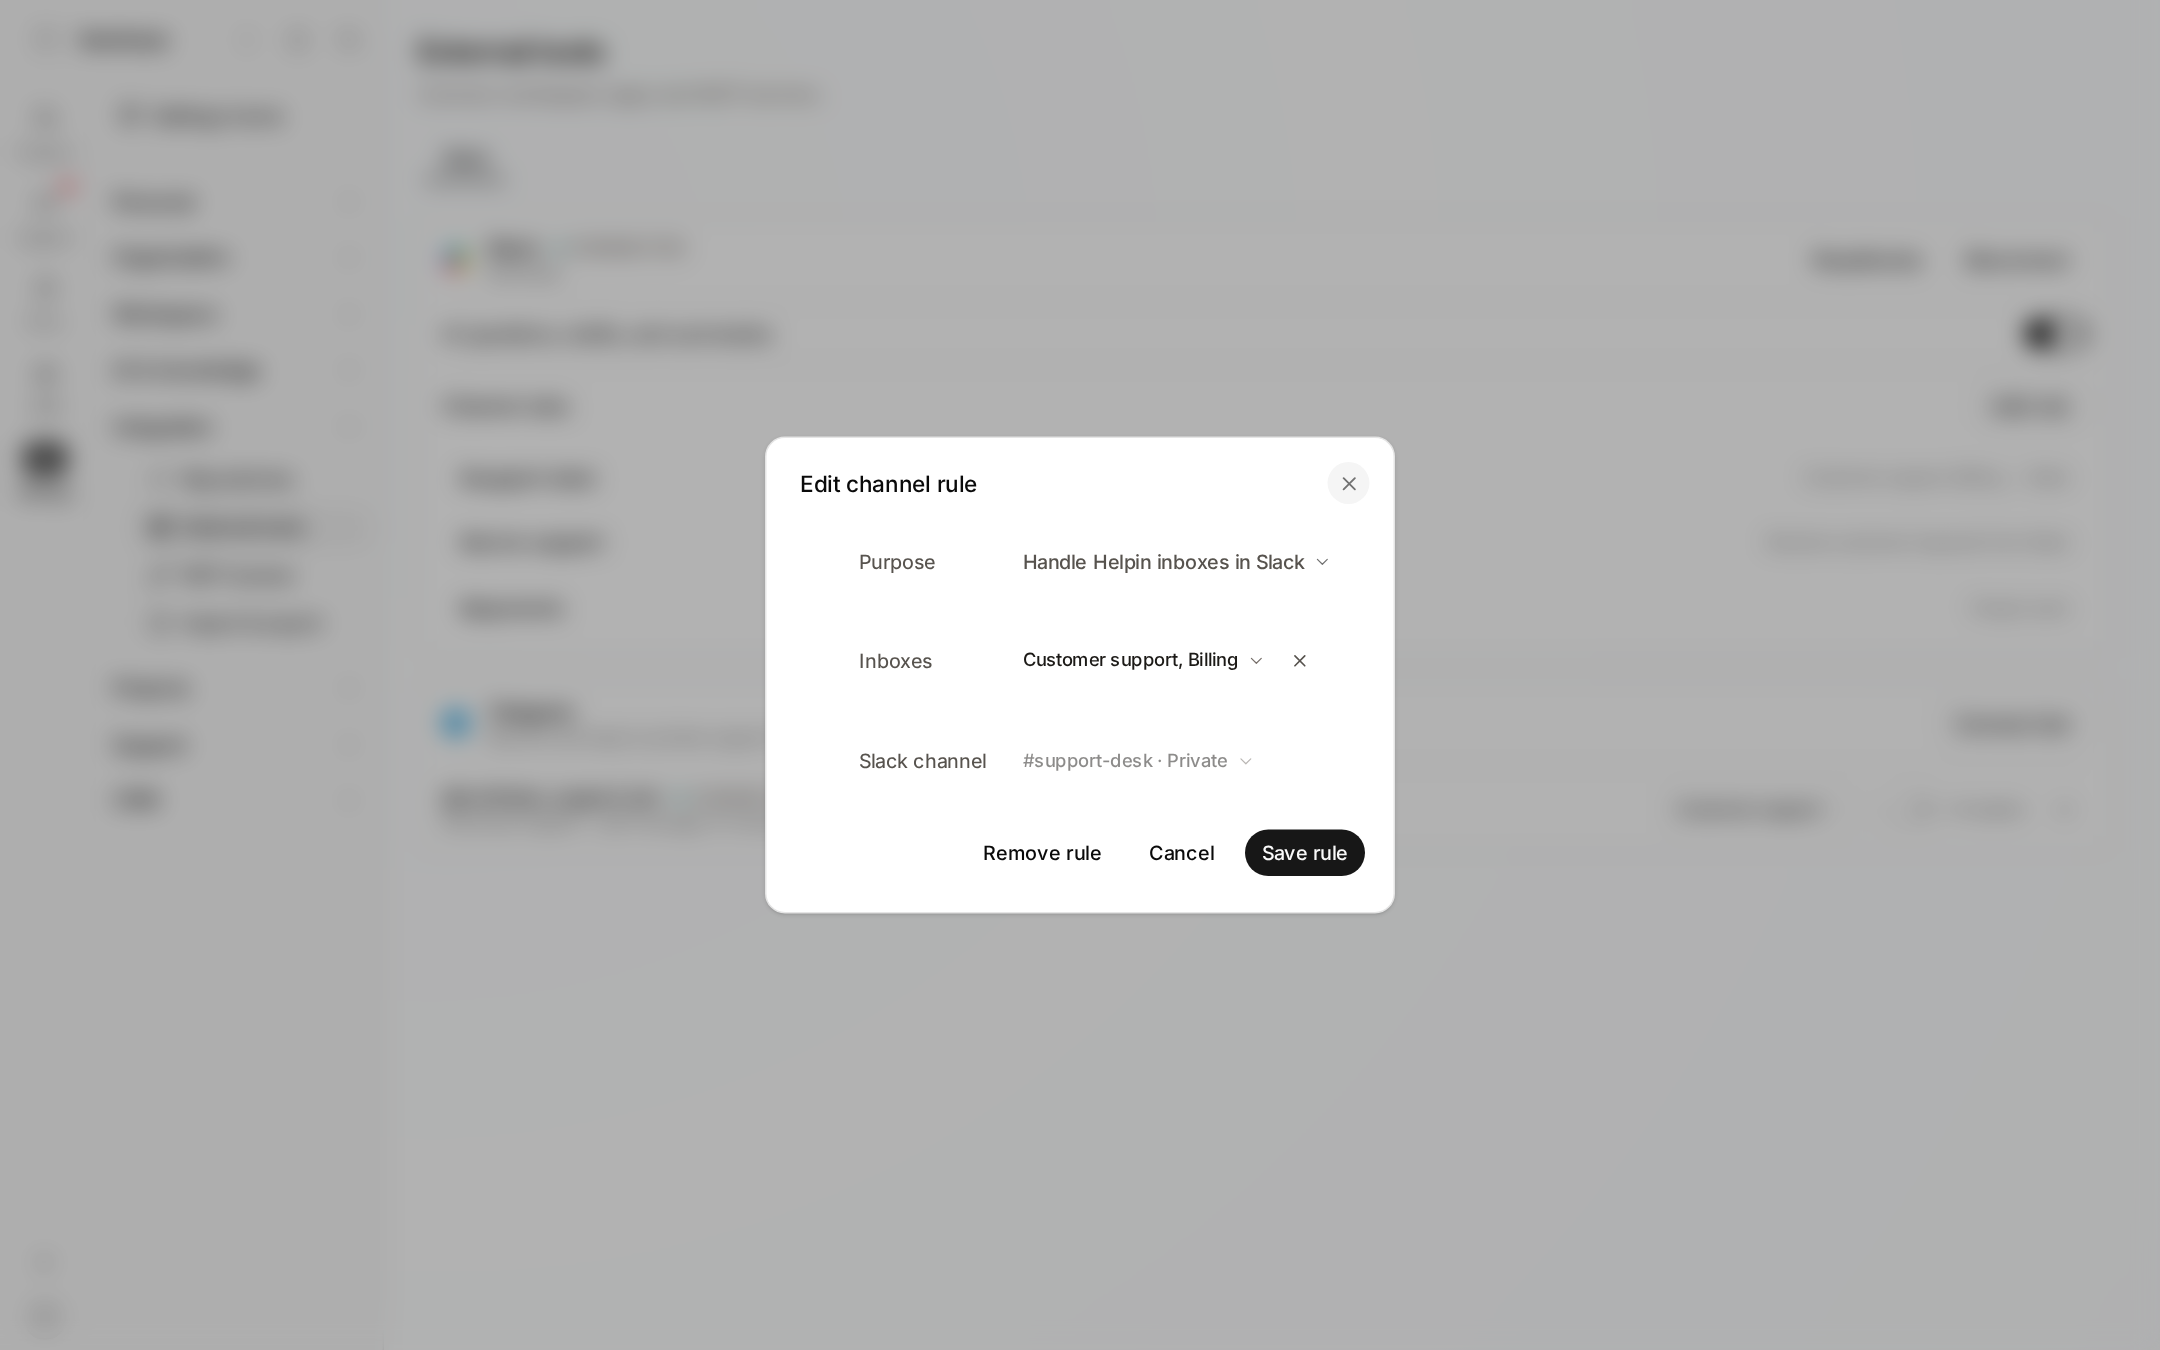
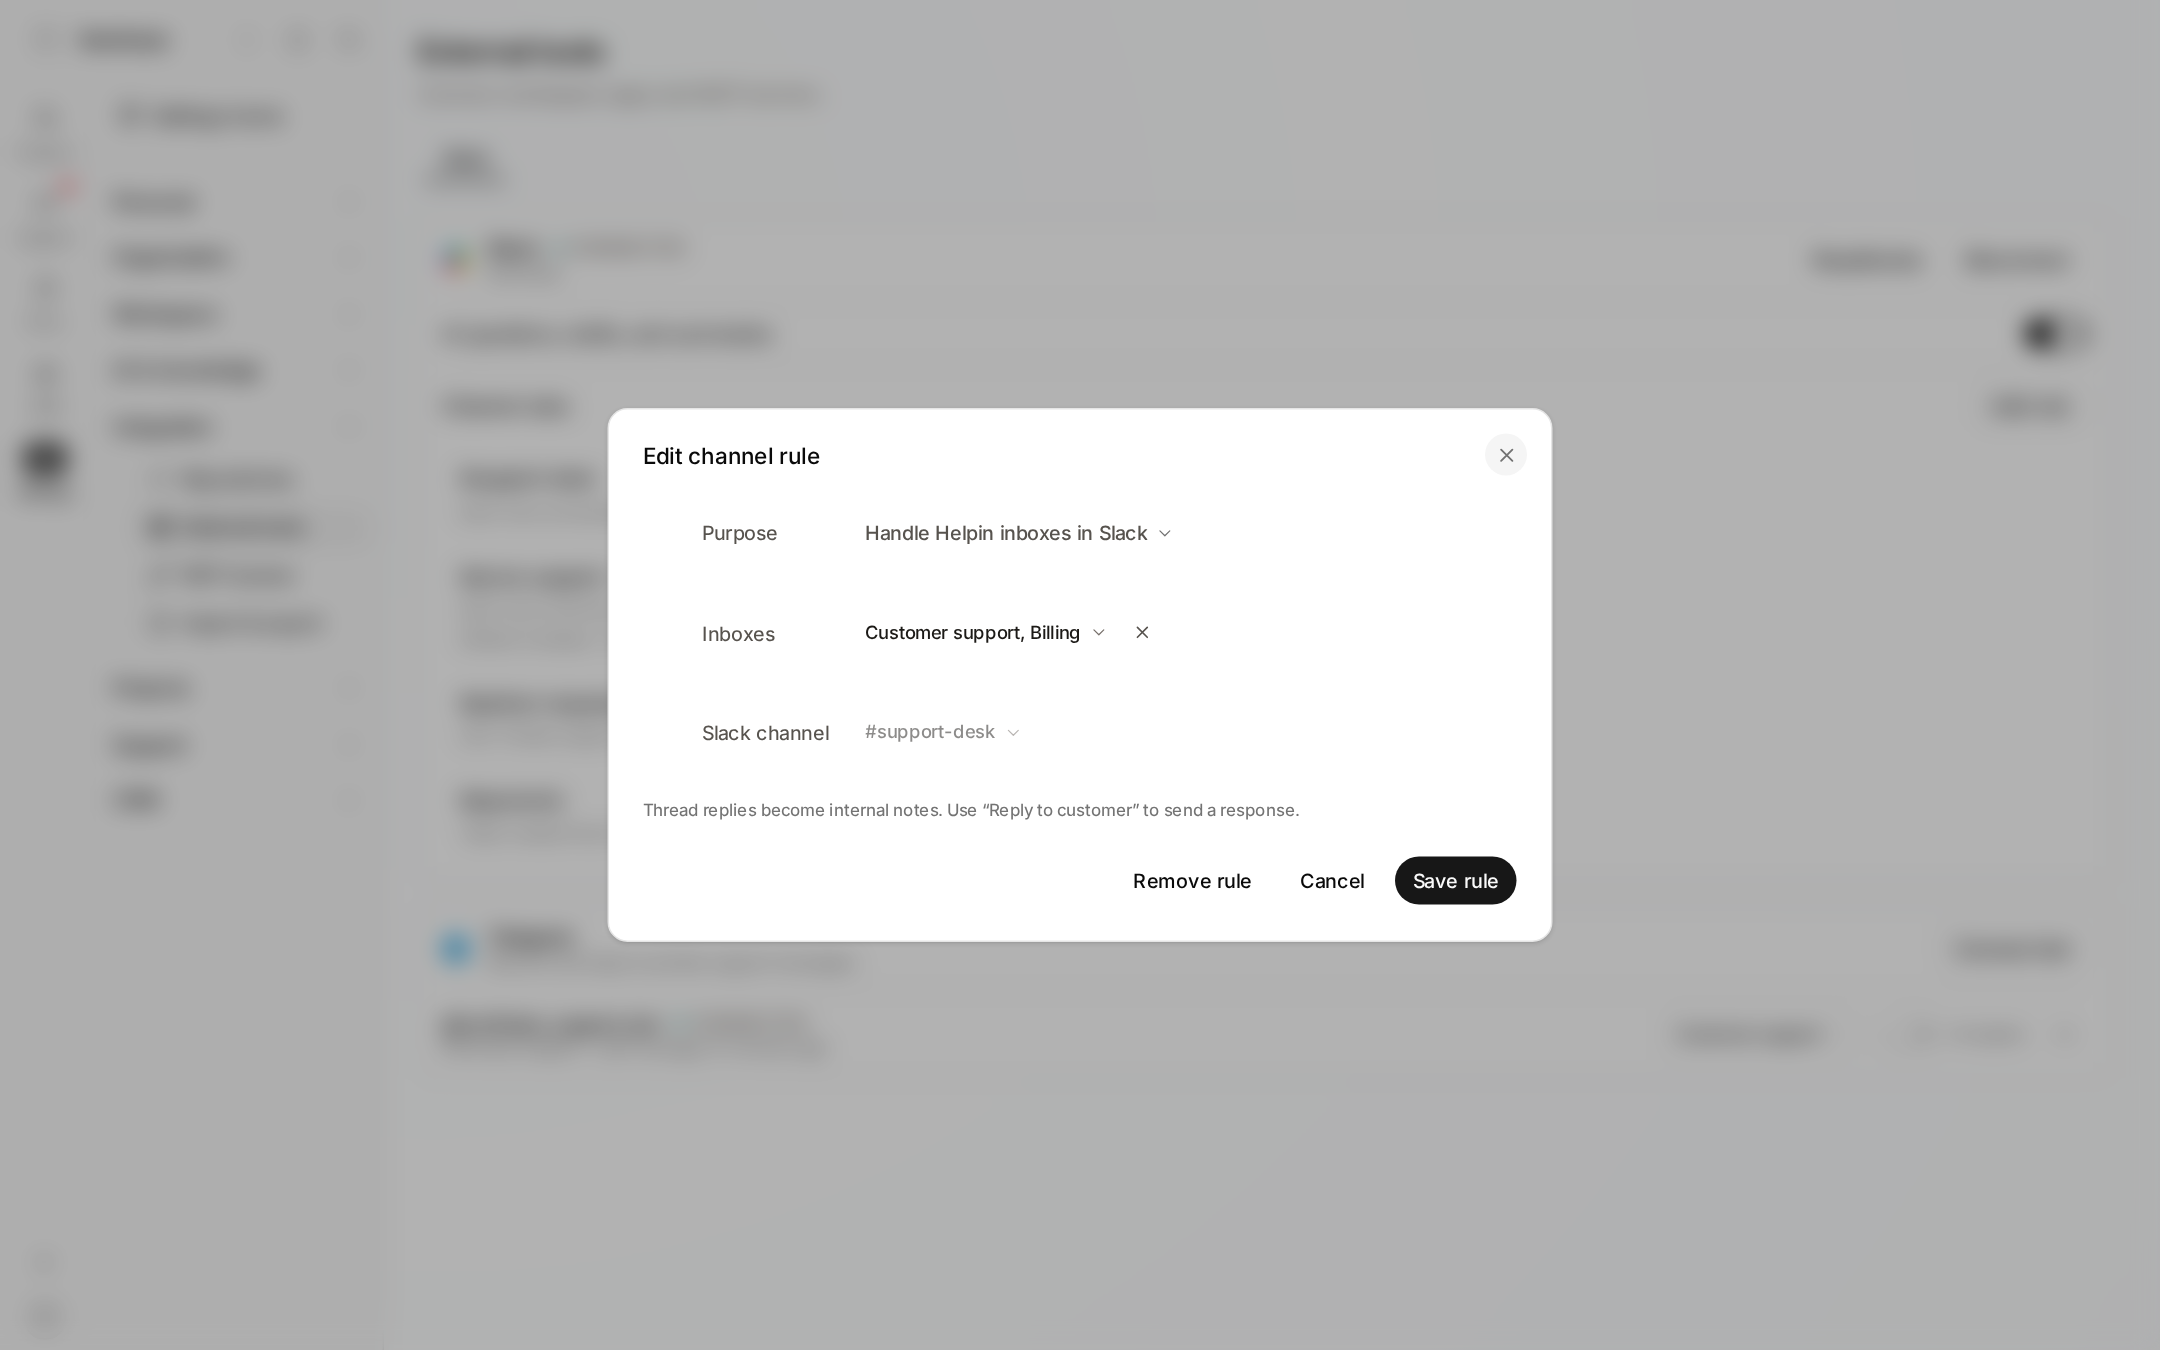
Describe Slack channel rules and simplify channel names

diff --git a/frontend/src/components/settings/channels/SlackChannels.tsx b/frontend/src/components/settings/channels/SlackChannels.tsx
@@ -1,5 +1,5 @@
 import { useState } from 'react'
-import { useQuery, useQueryClient, useMutation } from '@tanstack/react-query'
+import { useQuery, useQueryClient, useMutation, type UseQueryResult } from '@tanstack/react-query'
 import { toast } from 'sonner'
 import { Button } from '@/components/ui/button'
 import { Switch } from '@/components/ui/switch'
@@ -23,9 +23,11 @@ import { SlackIcon } from '@/lib/icons'
 import { slackChannelLabel } from '@/lib/supportChannels'
 import { useAccessibleTeams } from '@/hooks/useAccessibleTeams'
 import { useEpics } from '@/hooks/queries/useEpics'
+import { useCompany } from '@/hooks/queries/useCRM'
 import { useInboxScopes } from '@/hooks/queries/useSupport'
 import {
   slackService,
+  type SlackChannel,
   type SlackPurpose,
   type SlackRoute,
 } from '@/lib/services/slackService'
@@ -52,6 +54,37 @@ const emptyRoute: SlackRoute = {
 }
 const errorText = (error: unknown) =>
   error instanceof Error ? error.message : 'Could not update Slack settings'
+
+const inboxList = new Intl.ListFormat('en', { type: 'disjunction' })
+
+function describeRule(route: SlackRoute, inboxName: (id?: string | null) => string | undefined, team?: string, epic?: string) {
+  switch (route.purpose) {
+    case 'support':
+      return `Each new customer thread opens a conversation in ${inboxName(route.mailbox_id) ?? 'the selected inbox'}.`
+    case 'mixed':
+      return `Use “Create support request” on a Slack message to open a conversation in ${inboxName(route.mailbox_id) ?? 'the selected inbox'}.`
+    case 'inbox': {
+      const names = (route.mailbox_ids ?? []).map(id => inboxName(id))
+      const inboxes = names.length && names.every((name): name is string => !!name)
+        ? inboxList.format(names) : names.length === 1 ? 'the selected inbox' : 'the selected inboxes'
+      return `Each new conversation in ${inboxes} gets its own thread here.`
+    }
+    case 'pm': {
+      const defaults = [
+        route.team_id && (team ? `the ${team} team` : 'the selected team'),
+        route.epic_id && (epic ? `the ${epic} epic` : 'the selected epic'),
+      ].filter(Boolean)
+      return defaults.length
+        ? `Tasks created here default to ${defaults.join(' and ')}.`
+        : 'Create and follow Helpin tasks here. Choose a team when creating a task.'
+    }
+  }
+}
+
+function RuleCompany({ workspaceId, id }: { workspaceId: string; id: string }) {
+  const { data } = useCompany(workspaceId, id)
+  return data?.name ? <span className="text-xs font-normal text-muted-foreground">Default company · {data.name}</span> : null
+}
 
 export function SlackChannels({
   workspaceId,
@@ -102,13 +135,21 @@ export function SlackChannels({
   })
   const data = settings.data
   const scopes = useInboxScopes(workspaceId, hasSupport)
-  const inboxNames = (route: SlackRoute) => (route.mailbox_ids ?? []).map(id => id === 'shared' ? 'Main inbox' : scopes.data?.mailboxes.find(box => box.id === id)?.name ?? 'Team inbox').join(', ')
+  const inboxName = (id?: string | null) => !id || id === 'shared' ? 'Main inbox' : scopes.data?.mailboxes.find(box => box.id === id)?.name
+  const { teams } = useAccessibleTeams(hasPM && data?.routes?.some(rule => rule.team_id) ? workspaceId : '')
+  const { data: epics } = useEpics(hasPM && data?.routes?.some(rule => rule.epic_id) ? workspaceId : '')
   const [dismissedInbox, setDismissedInbox] = useState<string>()
   const requestedRule = canManageFeed && initialInbox && initialInbox !== dismissedInbox && data?.connected
     ? data.routes?.find(rule => rule.purpose === 'inbox' && rule.mailbox_ids?.includes(initialInbox))
       ?? { ...emptyRoute, purpose: 'inbox' as const, mailbox_ids: [initialInbox] }
     : null
   const editor = draft ?? requestedRule
+  const channels = useQuery({
+    queryKey: ['slackChannels', workspaceId],
+    queryFn: () => slackService.channels(workspaceId),
+    enabled: !!editor || !!data?.routes?.some(rule => rule.purpose === 'support' || rule.purpose === 'mixed'),
+    staleTime: 60_000,
+  })
   const closeEditor = () => { setDraft(null); setDismissedInbox(initialInbox) }
   return (
     <Card className="gap-0 rounded-lg py-0">
@@ -208,20 +249,24 @@ export function SlackChannels({
                 key={route.channel_id}
                 variant="ghost"
                 onClick={() => setDraft(route)}
-                className="flex h-auto w-full items-center justify-between gap-3 rounded-none border-b py-3 text-left last:border-b-0"
+                className="flex h-auto w-full flex-col items-start gap-1 whitespace-normal rounded-none border-b py-3 text-left last:border-b-0"
               >
-                <span className="truncate font-medium">
-                  {slackChannelLabel(route.channel_name)}
+                <span className="flex max-w-full items-baseline gap-2">
+                  <span className="truncate font-medium">{slackChannelLabel(route.channel_name)}</span>
+                  {channels.data?.some(channel => channel.id === route.channel_id && channel.is_ext_shared) &&
+                    <span className="shrink-0 text-xs font-normal text-muted-foreground">Slack Connect</span>}
                 </span>
-                <span className="shrink-0 text-xs font-normal text-muted-foreground">
-                  {route.purpose === 'inbox' ? inboxNames(route) + ' → Slack' : route.purpose === 'mixed' ? 'Customer requests on demand' : purposes[route.purpose]}
+                <span className="max-w-full text-xs font-normal leading-relaxed text-muted-foreground">
+                  {describeRule(route, inboxName, teams.find(team => team.id === route.team_id)?.name, epics?.find(({ epic }) => epic.id === route.epic_id)?.epic.name)}
                 </span>
+                {hasCRM && route.crm_company_id && <RuleCompany workspaceId={workspaceId} id={route.crm_company_id} />}
               </Button>
             ))}
           </div>
         )}
         {editor && (
           <RouteDialog
+            channels={channels}
             initial={editor}
             canManageFeed={canManageFeed}
             rules={data?.routes ?? []}
@@ -242,6 +287,7 @@ export function SlackChannels({
 }
 
 function RouteDialog({
+  channels,
   initial,
   rules,
   canManageFeed,
@@ -252,6 +298,7 @@ function RouteDialog({
   onClose,
   onSaved,
 }: {
+  channels: UseQueryResult<SlackChannel[]>
   initial: SlackRoute
   rules: SlackRoute[]
   canManageFeed: boolean
@@ -263,10 +310,6 @@ function RouteDialog({
   onSaved: () => void
 }) {
   const [route, setRoute] = useState(initial)
-  const channels = useQuery({
-    queryKey: ['slackChannels', workspaceId],
-    queryFn: () => slackService.channels(workspaceId),
-  })
   const { teams } = useAccessibleTeams(workspaceId)
   const { data: scopes } = useInboxScopes(workspaceId, hasSupport)
   const { data: epics } = useEpics(route.purpose === 'pm' ? workspaceId : '', {
@@ -285,7 +328,6 @@ function RouteDialog({
   const options = (items: { id: string; name: string }[] = []) =>
     items.map((item) => ({ value: item.id, label: item.name }))
   const selected = channels.data?.find(c => c.id === route.channel_id)
-  const isSlackConnectIntake = selected?.is_ext_shared && (route.purpose === 'support' || route.purpose === 'mixed')
   const inboxOptions = [{ value: 'shared', label: 'Main inbox' }, ...options(scopes?.mailboxes)].map(option => {
     const other = rules.find(rule => rule.channel_id !== initial.channel_id && rule.purpose === 'inbox' && rule.mailbox_ids?.includes(option.value))
     return other ? { ...option, disabled: true, label: option.label + ' · ' + slackChannelLabel(other.channel_name) } : option
@@ -300,7 +342,7 @@ function RouteDialog({
         if (!open && !pending) onClose()
       }}
     >
-      <DialogContent className={isSlackConnectIntake ? 'grid-cols-1 sm:max-w-2xl' : undefined}>
+      <DialogContent className="grid-cols-1 sm:max-w-2xl">
         <DialogHeader>
           <DialogTitle>
             {initial.channel_id ? 'Edit channel rule' : 'Add channel rule'}
@@ -318,10 +360,10 @@ function RouteDialog({
             onChange={mailbox_ids => setRoute({ ...route, mailbox_ids })} />
         } />}
         <QuietPropertyRow label="Slack channel" value={
-          <QuietFilterDropdown label="Slack channel" value={route.channel_id} emptyLabel="Choose channel"
+          <QuietFilterDropdown label="Slack channel" value={route.channel_id} emptyLabel="Choose channel" popoverClassName="w-80"
             disabled={!!initial.channel_id}
             options={(channels.data ?? []).filter(c => !(c.is_ext_shared || c.is_pending_ext_shared) || route.purpose === 'support' || route.purpose === 'mixed')
-              .map(c => ({value:c.id, label:slackChannelLabel(c.name) + (c.is_ext_shared ? ' · Slack Connect' : c.is_private ? ' · Private' : ' · Public')}))}
+              .map(c => ({value:c.id, label:slackChannelLabel(c.name) + (c.is_ext_shared ? ' · Slack Connect' : '')}))}
             onChange={channel_id => setRoute({ ...route, channel_id })} />
         } />
         {!initial.channel_id && <details className="text-xs text-muted-foreground">
@@ -329,6 +371,7 @@ function RouteDialog({
           <p className="mt-1">In Slack, use <code>/invite @Helpin</code>, then <button type="button" className="underline" onClick={() => void channels.refetch()}>refresh channels</button>.</p>
         </details>}
         {channels.isError && <p role="alert" className="text-xs text-destructive">{errorText(channels.error)}</p>}
+        {route.purpose === 'inbox' && <p className="text-xs text-muted-foreground">Thread replies become internal notes. Use “Reply to customer” to send a response.</p>}
         {route.purpose === 'inbox' && selected && !selected.is_private &&
           <p className="text-xs text-muted-foreground">{restrictedInPublic
             ? 'Team inboxes require a private Slack channel whose members have access to those inboxes.'

diff --git a/.mockups/slack-inbox-feed/index.html b/.mockups/slack-inbox-feed/index.html
@@ -1,0 +1,14 @@
+<!doctype html>
+<html lang="en"><head><meta charset="utf-8"><meta name="viewport" content="width=device-width, initial-scale=1"><meta name="robots" content="noindex"><title>Support inboxes in Slack · Helpin</title>
+<style>
+*{box-sizing:border-box}body{margin:0;background:#f7f8fa;color:#1d2530;font-family:Inter,system-ui,sans-serif}main{max-width:1440px;margin:auto;padding:clamp(18px,4vw,56px)}h1{font-size:clamp(24px,3vw,38px);margin:0 0 8px;letter-spacing:-.035em}p{margin:0 0 28px;color:#515b68}section{display:grid;grid-template-columns:repeat(2,minmax(0,1fr));gap:24px}figure{margin:0;background:white;border:1px solid #dce0e6;border-radius:10px;overflow:hidden}a{display:block;color:inherit;text-decoration:none}a:hover figcaption{text-decoration:underline}a:focus-visible{outline:3px solid #356ade;outline-offset:-3px}img{width:100%;display:block;aspect-ratio:8/5;object-fit:contain}figcaption{padding:13px 16px;font-weight:550;border-top:1px solid #e9ebef}@media(max-width:780px){section{grid-template-columns:1fr;gap:16px}}
+</style></head><body><main><h1>Support inboxes in Slack</h1><p>Select a screenshot to open it at full size.</p><section><figure id="inbox-selection"><a href="inbox-selection.png"><img alt="Choose the inboxes to share" src="inbox-selection.png"><figcaption>Choose the inboxes to share</figcaption></a></figure>
+<figure id="conversation"><a href="conversation.png"><img alt="Slack replies, notes, and assignments in Helpin" src="conversation.png"><figcaption>Slack replies, notes, and assignments in Helpin</figcaption></a></figure>
+<figure id="channel-rules"><a href="channel-rules.png"><img alt="Slack channel rules" src="channel-rules.png"><figcaption>Slack channel rules</figcaption></a></figure>
+<figure id="channel-picker"><a href="channel-picker.png"><img alt="Choose a Slack channel for a rule" src="channel-picker.png"><figcaption>Choose a Slack channel</figcaption></a></figure>
+<figure id="inbox-rule"><a href="inbox-rule.png"><img alt="Saved inbox rule" src="inbox-rule.png"><figcaption>Saved inbox rule</figcaption></a></figure>
+<figure id="public-channel"><a href="public-channel.png"><img alt="Public channel visibility" src="public-channel.png"><figcaption>Public channel visibility</figcaption></a></figure>
+<figure id="customer-intake"><a href="customer-intake.png"><img alt="Customer requests from Slack Connect" src="customer-intake.png"><figcaption>Customer requests from Slack Connect</figcaption></a></figure>
+<figure id="inboxes"><a href="inboxes.png"><img alt="Shared inbox shortcut" src="inboxes.png"><figcaption>Shared inbox shortcut</figcaption></a></figure>
+<figure id="inbox-settings"><a href="inbox-settings.png"><img alt="Team inbox settings" src="inbox-settings.png"><figcaption>Team inbox settings</figcaption></a></figure>
+<figure id="conversation-actions"><a href="conversation-actions.png"><img alt="Open the Slack thread from Helpin" src="conversation-actions.png"><figcaption>Open the Slack thread from Helpin</figcaption></a></figure></section></main></body></html>
